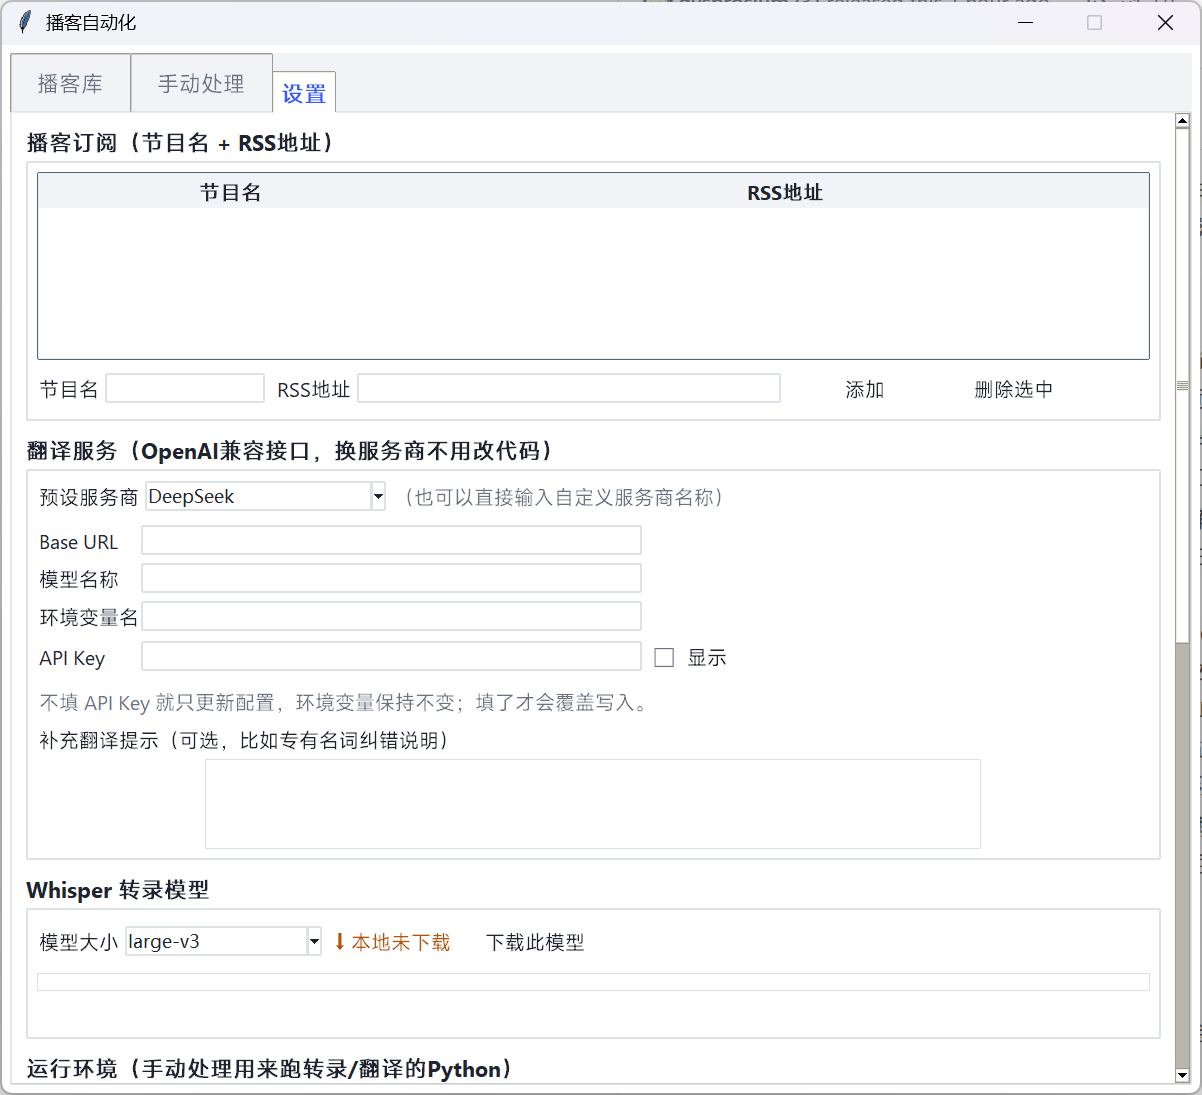
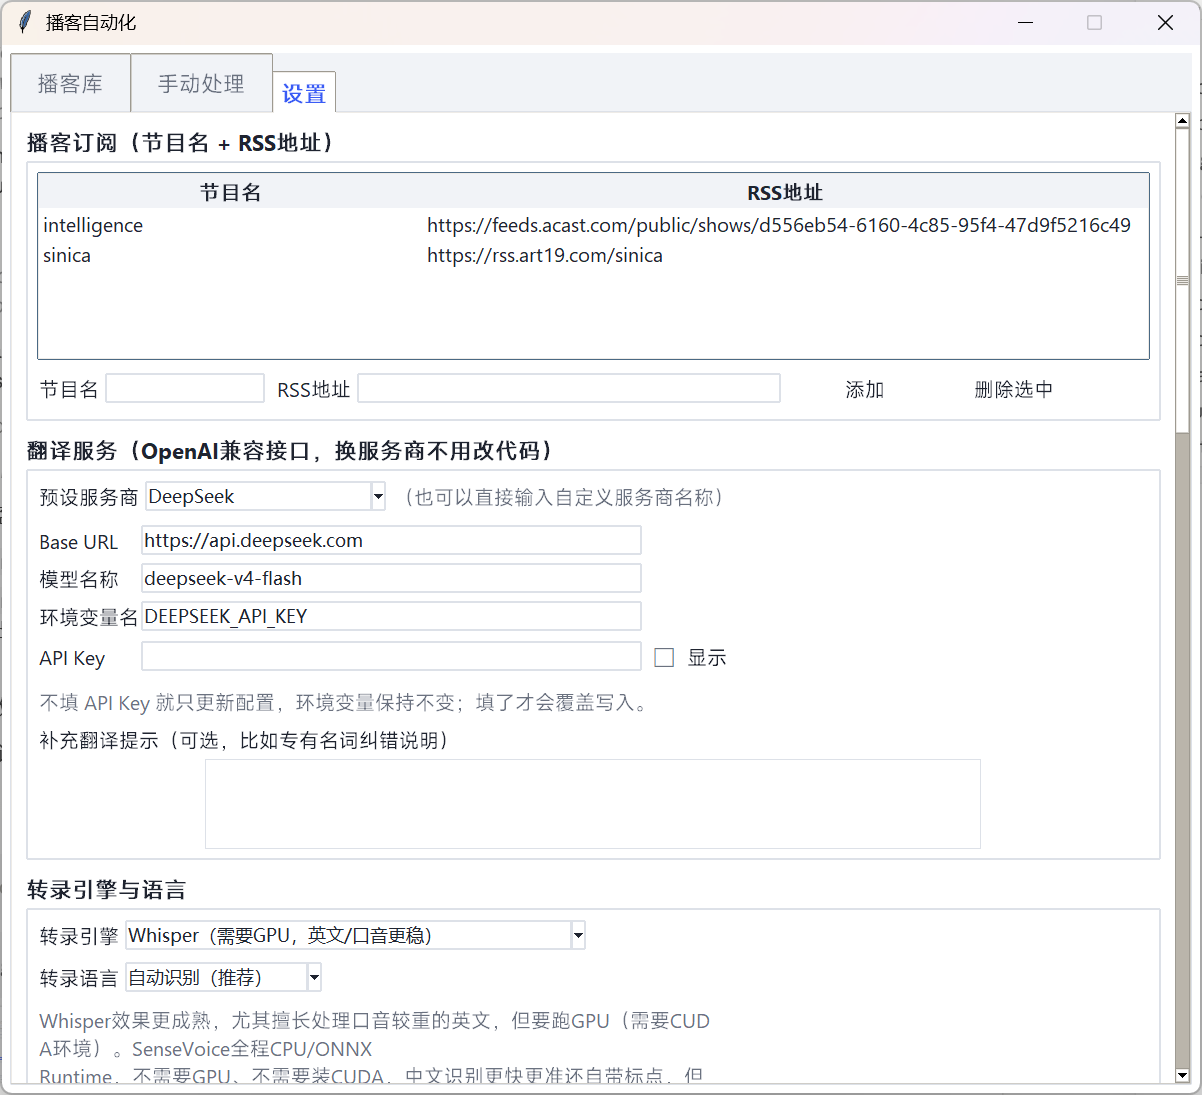
Add real screenshots for 播客库, 手动处理, and the current 设置 layout
Replace the stale settings-top/bottom screenshots (predating dual-engine,
diarization, and the video-link cookies option) and add coverage for
播客库 and all three 手动处理 panes that the README previously described
but never showed.

diff --git a/README.md b/README.md
@@ -119,8 +119,9 @@ python setup_wizard.py
 
 ### 第4步：在「设置」页签里填好这几样
 
-![设置页签上半部分](docs/settings-top.png)
-![设置页签下半部分](docs/settings-bottom.png)
+![设置页签：播客订阅、翻译服务、转录引擎](docs/settings-top.png)
+![设置页签：模型下载状态](docs/settings-models.png)
+![设置页签：说话人区分、视频链接cookies、运行环境](docs/settings-advanced.png)
 
 1. **翻译服务**：下拉选个预设（比如 DeepSeek），把第1步拿到的 API Key 粘贴进去（只转录中文内容的话这一步可以先随便填，用不上）
 2. **转录引擎与语言**：选 Whisper 还是 SenseVoice，转录语言默认「自动识别」就行
@@ -136,11 +137,21 @@ python setup_wizard.py
 
 **批量转录学习材料**：去「手动处理」页签——
 
+![手动处理：单个文件](docs/manual-single-file.png)
+
 - 「单个文件」：选一个本地音频文件、或者粘贴一个视频链接（YouTube/B站，靠 [yt-dlp](https://github.com/yt-dlp/yt-dlp) 解析下载音频）。节目名/期数标题留空的话会自动读文件名/视频标题、按来源站点填默认节目名，不用每次手动打。点「开始转录+翻译」。YouTube 这边经常会被识别成「机器人」拦掉，不稳定，B站相对稳一些——「设置」页可以选一个浏览器，下载时带上那个浏览器里已登录的YouTube cookies，能缓解这个问题（不保证100%有效，要求那个浏览器当时确实登录着YouTube）
+
+![手动处理：批量本地导入](docs/manual-batch-import.png)
+
 - 「批量本地导入」：选一个装了一堆音频的文件夹（或者一个 zip 压缩包），勾选要处理的文件，一次性排队批量转录+翻译
+
+![手动处理：RSS历史下载](docs/manual-rss-history.png)
+
 - 「RSS历史下载」：粘贴播客的 RSS 地址（也支持 Apple Podcasts 链接，整档或者指向某一期的链接都行），把整个历史列表拉出来，勾选任意几期批量下载处理，不受限于"只能拿到最新一期"
 
-批量场景支持排队依次处理（同一时间只处理一个）、随时取消剩余排队项，已经处理过的会先问一遍是否覆盖。跑完回到「播客库」页签就能看到，按节目分组、显示日期，点「打开字幕页」看效果。
+批量场景支持排队依次处理（同一时间只处理一个）、随时取消剩余排队项，已经处理过的会先问一遍是否覆盖。失败的话状态列会直接显示原因，双击那一行能看完整错误信息。跑完回到「播客库」页签就能看到，按节目分组、显示日期，点「打开字幕页」看效果：
+
+![播客库](docs/library.png)
 
 **全自动播客流水线**：确认第4步里播客订阅和每日自动运行都配置好了，就完成了。
 